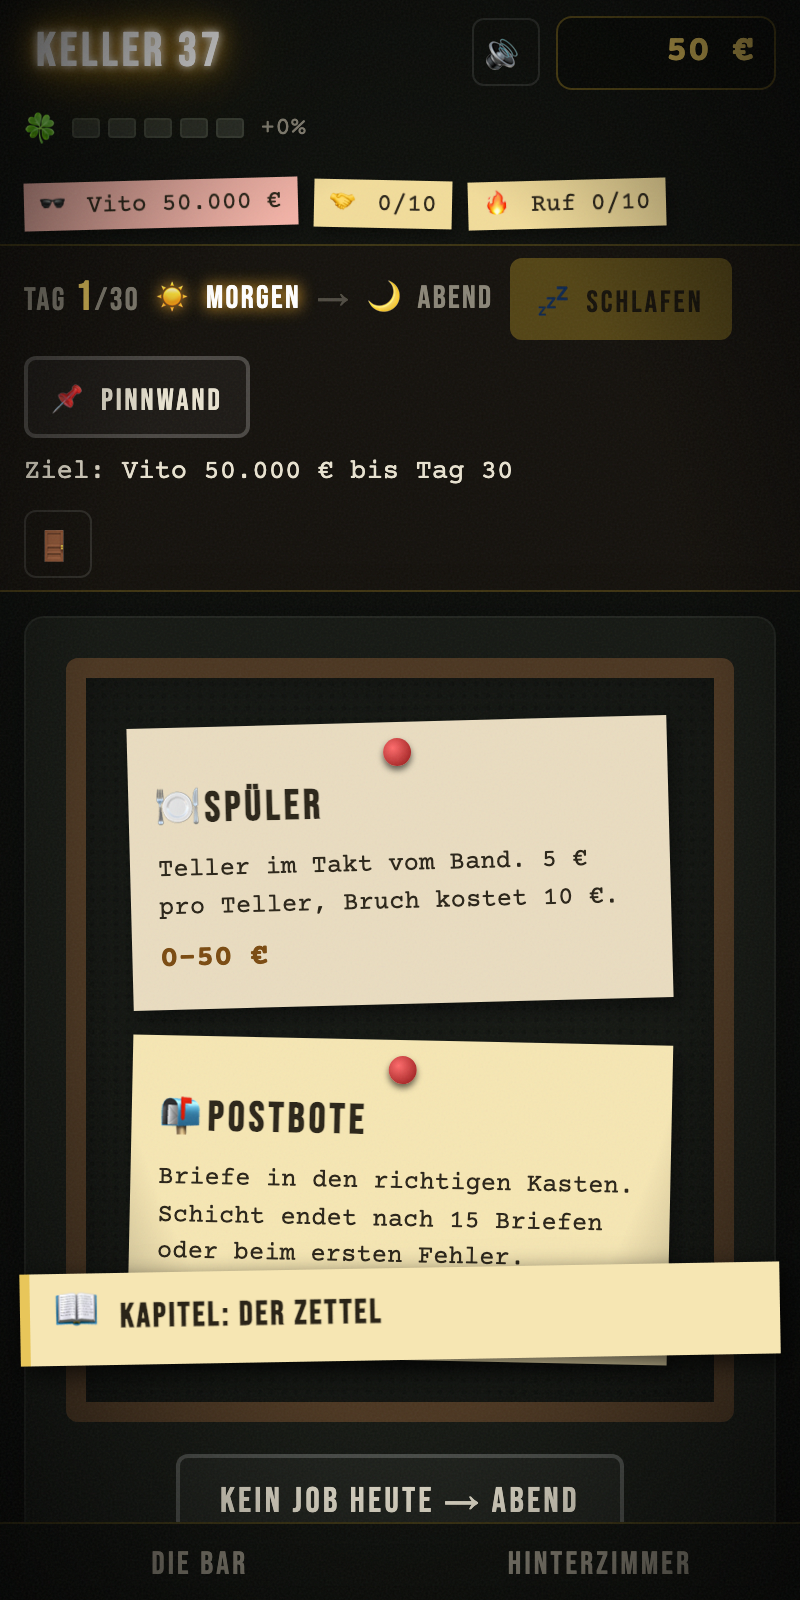
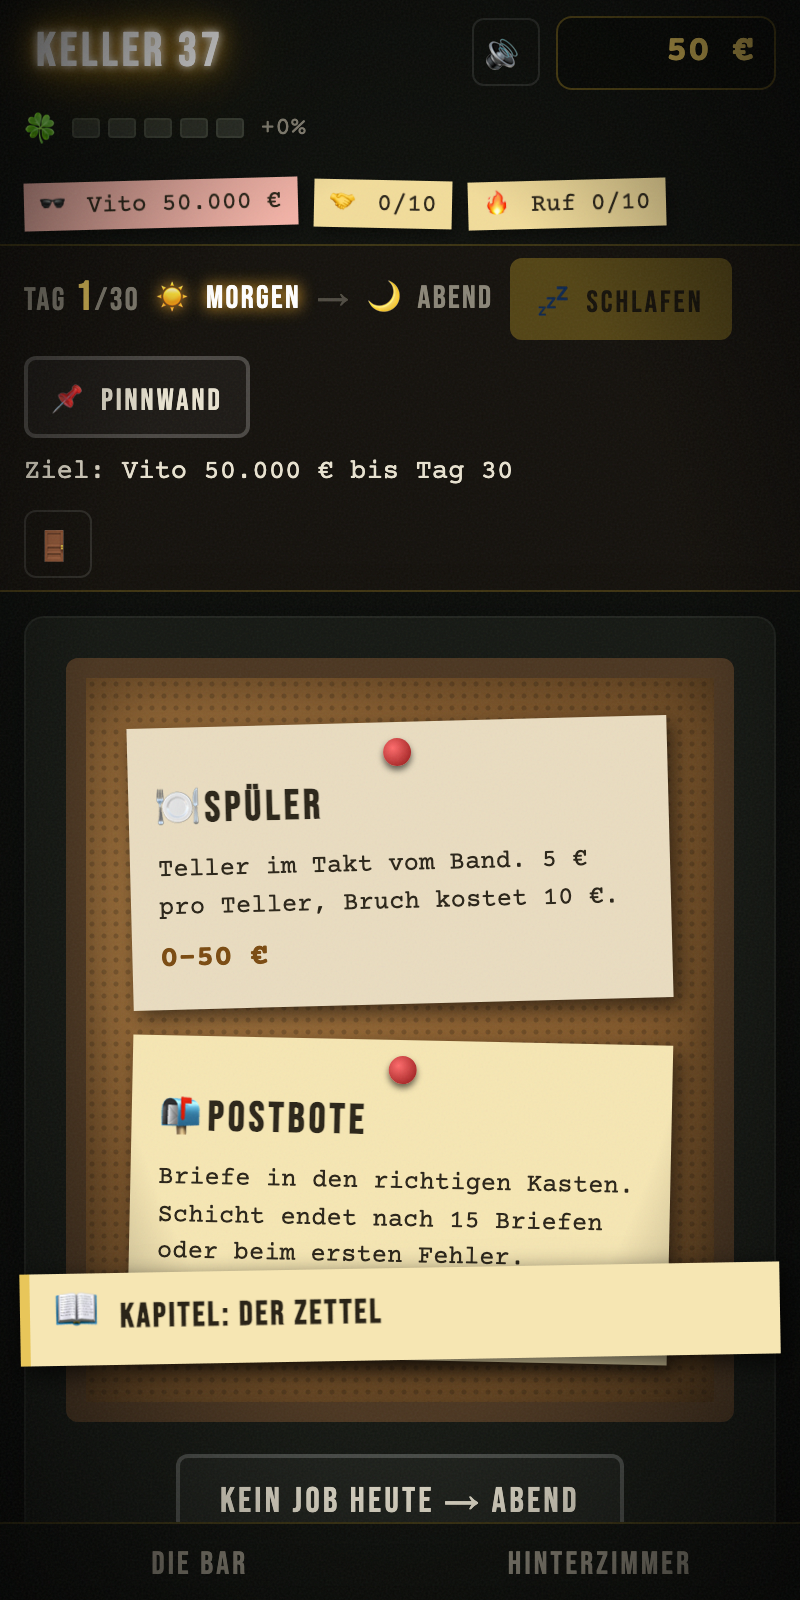
fix(story): Mini-Spiel verbraucht den Tag sofort, Story-Finanzraum ohne Sandbox-Kredit, Korkwand sichtbar
- Jobs.finishGame in Jobs.collect (Lohn verbuchen, jobToday setzen, ohne
  Navigation) und finishGame (collect + Abend) aufgeteilt; Spüler und Taxi
  rufen collect am Schichtende. Escape/Reload vor „Feierabend" lässt den Job
  damit nicht mehr wiederholen; Story.morning() springt bei gesetztem
  jobToday direkt in den Abend. Story.jobDone ist reine Buchhaltung.
- Finanz-Screen im Story-Modus: Bank-/Vito-Schalter nur bei freigeschaltetem
  Raum (bank/mafia), sonst einspaltig – kein Sandbox-Mafia-Kredit in Story 1.
- .pinboard: beide Hintergrund-Layer in einer background-image-Deklaration,
  die Korkwand war vorher schwarz. Screenshots story-jobs/story-mobile-jobs neu.
- Playtest: Szenario „Ein Job pro Tag ohne Feierabend-Klick" (4 Checks).

Changed region(s): [[0.0938, 0.4062, 0.9062, 0.8125], [0.0938, 0.8438, 0.9062, 0.875]]

diff --git a/keller37.html b/keller37.html
@@ -455,7 +455,7 @@ body.mode-story #newgame, body.mode-story #toTitle { display: none; }
 #nightfade.on { opacity: 1; pointer-events: auto; }
 @media (max-width: 760px) { .daybar { top: 0; position: static; padding: 6px 12px; gap: 8px; } .day-count { font-size: 1.3rem; } .day-goal { width: 100%; margin-left: 0; } }
 /* -- Jobbörse -- */
-.pinboard { position: relative; background: radial-gradient(circle at 20% 30%, #a8783f 0, #8a5e2e 40%, #6e4a22 100%); background-image: radial-gradient(rgba(0,0,0,.18) 1px, transparent 1.5px); background-size: 6px 6px; border: 10px solid #4a3520; border-radius: 6px; padding: 22px; display: grid; grid-template-columns: repeat(auto-fill, minmax(200px, 1fr)); gap: 18px; min-height: 260px; box-shadow: inset 0 0 40px rgba(0,0,0,.5); }
+.pinboard { position: relative; background-image: radial-gradient(rgba(0,0,0,.18) 1px, transparent 1.5px), radial-gradient(circle at 20% 30%, #a8783f 0, #8a5e2e 40%, #6e4a22 100%); background-size: 6px 6px, auto; border: 10px solid #4a3520; border-radius: 6px; padding: 22px; display: grid; grid-template-columns: repeat(auto-fill, minmax(200px, 1fr)); gap: 18px; min-height: 260px; box-shadow: inset 0 0 40px rgba(0,0,0,.5); }
 .jobnote { position: relative; background: var(--paper); color: var(--paper-ink); padding: 26px 14px 14px; font-family: var(--font-mono); box-shadow: 3px 4px 10px rgba(0,0,0,.6); transform: rotate(-1.5deg); display: flex; flex-direction: column; gap: 6px; cursor: pointer; transition: transform .15s; }
 .jobnote:nth-child(even) { transform: rotate(1.2deg); background: #f6e6b3; }
 .jobnote:hover { transform: rotate(0) translateY(-3px); }
@@ -1939,6 +1939,12 @@ UI.register('finance', {
   template: 'tpl-finance',
   mount(root) {
     Finance.root = root;
+    if (State.mode === 'story') {
+      const bank = qs('.counter.bank', root), vito = qs('.counter.vito', root);
+      bank.classList.toggle('hidden', !Story.roomUnlocked('bank'));
+      vito.classList.toggle('hidden', !Story.roomUnlocked('mafia'));
+      if (bank.classList.contains('hidden') || vito.classList.contains('hidden')) qs('.finance', root).style.gridTemplateColumns = '1fr';
+    }
     qsa('[data-loan]', root).forEach((b) => b.addEventListener('click', () => Finance.loanBank(parseInt(b.dataset.loan, 10))));
     qsa('[data-mloan]', root).forEach((b) => b.addEventListener('click', () => Finance.loanMafia(parseInt(b.dataset.mloan, 10))));
     qs('#repayBank', root).addEventListener('click', () => Finance.repayBank());
@@ -3409,6 +3415,7 @@ const Story = {
 
   /* ---- Tagesphasen ---- */
   async morning() {
+    if (this.s.jobToday) return this.evening(); // Job heute schon erledigt (z. B. Reload vor „Feierabend")
     this.s.phase = 'morning'; this.lostDay = false;
     State.save(); this.renderDaybar();
     await this.runEvents('morning');
@@ -3462,13 +3469,14 @@ const Story = {
     const c = await Title.show();
     if (c) await Modes.enter(c);
   },
+  /* Buchhaltung eines erledigten Jobs (kein Phasenwechsel) */
   jobDone(jobId, earned) {
     this.s.jobToday = jobId;
     this.s.jobsDone[jobId] = (this.s.jobsDone[jobId] || 0) + 1;
     this.s.stats.jobs++;
     this.s.stats.earned += Math.max(0, earned);
     State.save();
-    return this.evening();
+    this.renderDaybar();
   },
 
   /* ---- Sperren ---- */
@@ -3612,17 +3620,26 @@ const Jobs = {
     const extra = (Story.story.jobEffects || {})[sceneId];
     if (extra) await Story.applyEffects(extra);
     const earned = State.s.balance - before;
+    Story.jobDone(job.id, earned);
     await Bus.emit('job:done', { id: job.id, earned });
-    await Story.jobDone(job.id, earned);
+    await Story.evening();
     if (Story.lostDay) { Story.lostDay = false; UI.toast({ icon: '🚔', title: 'Tag verloren', text: 'Der Abend fällt aus.', tone: 'loss' }); await Story.night(); }
   },
-  async finishGame(id) {
+  /* Lohn verbuchen und den Tag verbrauchen – ohne Navigation. Wird am Ende eines Mini-Spiels
+     gerufen, damit der Job auch bei Escape/Reload vor „Feierabend" als erledigt gilt. */
+  async collect(id) {
     const start = Story.jobStart;
-    if (!start) return;
+    if (!start || start.id !== id) return false;
     Story.jobStart = null;
     const earned = State.s.balance - start.balance;
+    Story.jobDone(id, earned);
     await Bus.emit('job:done', { id, earned });
-    await Story.jobDone(id, earned);
+    return true;
+  },
+  /* „Feierabend": verbuchen (falls noch nicht geschehen) und in den Abend wechseln */
+  async finishGame(id) {
+    const collected = await this.collect(id);
+    if (collected || Story.s.jobToday === id) await Story.evening();
   },
   abort() { Story.jobStart = null; },
 };
@@ -3754,6 +3771,7 @@ const Spueler = {
     if (pay !== 0) Game.applyDelta(pay, { from: this.root ? qs('#belt', this.root) : null });
     if (pay >= 0) SFX.play('cash');
     await Bus.emit('spueler:result', { hits: this.hits, breaks: this.breaks, pay });
+    await Jobs.collect('spueler');
   },
   onKey(e) { if (e.code === 'Space' && qs('#cutscene').hidden && !e.repeat) { e.preventDefault(); Spueler.tap(); } },
 };
@@ -3849,6 +3867,7 @@ const Taxi = {
     if (pay !== 0) Game.applyDelta(pay, { from: this.root ? qs('#taxiRoad', this.root) : null });
     if (pay >= 0) SFX.play('cash');
     await Bus.emit('taxi:result', { passengers: this.passengers, tickets: this.tickets, pay });
+    await Jobs.collect('taxi');
   },
   onKey(e) {
     if (!qs('#cutscene').hidden) return;

diff --git a/tests/playtest-story.py b/tests/playtest-story.py
@@ -6,7 +6,8 @@ Startet einen echten Headless-Chrome (--headless=new --remote-debugging-port=933
 fährt die in Task-9-Brief/Spec §13 beschriebene Sequenz (Titel -> Story -> Intro ->
 Pinnwand -> Spüler -> Abend-Hub mit Sperren -> Vitos Tisch -> Schlafen -> Tag 2 ->
 Post-Schicht -> Nacht-Ereignisse -> Kapitel -> Taxi -> Kontrolle/Duell -> alle vier
-Enden -> Titel -> freies Spiel) und sammelt dabei Konsolenfehler/Exceptions.
+Enden -> Titel -> freies Spiel, dazu Ein-Job-pro-Tag ohne Feierabend-Klick) und sammelt dabei
+Konsolenfehler/Exceptions.
 
 Wo die Spec ausdrücklich "mit gesetzten Variablen" (§13) vorschreibt, werden
 Story-Felder direkt über Runtime.evaluate gesetzt und dann echte Engine-Methoden
@@ -678,6 +679,44 @@ async def scenario_spueler_taxi_loss(cdp):
            "res=%s before=%s after=%s" % (res, balance_before, balance_after))
 
 
+async def scenario_job_consumed_before_feierabend(cdp):
+    """Ein Job pro Tag auch ohne "Feierabend"-Klick: Spueler-Schicht beenden, dann Escape (statt
+    "Feierabend") -> Pinnwand zeigt "Heute erledigt", Spueler nicht erneut klickbar; Reload danach
+    -> Fortsetzen landet im Abend mit gesetztem jobToday und ohne doppelten Lohn."""
+    await cdp.navigate(URL_BASE + "?fresh&story=schuld&day=1&job=spueler")
+    await asyncio.sleep(1.0)
+    await cdp.inject_helpers()
+    await cdp.click("#btnDishStart")
+    await asyncio.sleep(0.3)
+    await cdp.eval("__pt.autoplaySpueler('win')", timeout=20)
+    await asyncio.sleep(0.3)
+    job_today = await cdp.eval("State.s.story.jobToday", await_promise=False)
+    phase = await cdp.eval("State.s.story.phase", await_promise=False)
+    record("ein-job-pro-tag: Schichtende verbraucht den Tag sofort (vor Feierabend)", job_today == "spueler" and phase == "morning",
+           "jobToday=%s phase=%s" % (job_today, phase))
+    for typ in ("keyDown", "keyUp"):
+        await cdp.send("Input.dispatchKeyEvent", {"type": typ, "key": "Escape", "code": "Escape", "windowsVirtualKeyCode": 27})
+    await cdp.wait_for("UI.current && UI.current.id === 'jobs' && !UI.busy", timeout=3.0)
+    screen = await cdp.eval("UI.current && UI.current.id", await_promise=False)
+    stamps = await cdp.eval("[...document.querySelectorAll('#pinboard .jobnote.done .done-stamp')].map((e) => e.textContent)", await_promise=False)
+    record("ein-job-pro-tag: Escape morgens -> Pinnwand mit 'Heute erledigt'", screen == "jobs" and "Heute erledigt" in (stamps or []),
+           "screen=%s stamps=%s" % (screen, stamps))
+    await cdp.eval("[...document.querySelectorAll('#pinboard .jobnote')].forEach((n) => n.click())", await_promise=False)
+    await asyncio.sleep(0.5)
+    screen = await cdp.eval("UI.current && UI.current.id", await_promise=False)
+    record("ein-job-pro-tag: Spueler nicht erneut klickbar", screen == "jobs", "screen=%s" % screen)
+    balance = await cdp.eval("State.s.balance", await_promise=False)
+    await cdp.navigate(URL_BASE)
+    await asyncio.sleep(1.0)
+    await cdp.inject_helpers()
+    await cdp.click(".title-door[data-choice='story']")
+    await cdp.wait_for("State.mode === 'story' && UI.current && UI.current.id === 'hub' && !UI.busy", timeout=3.0)
+    st = await cdp.eval("({phase: State.s.story.phase, jobToday: State.s.story.jobToday, screen: UI.current && UI.current.id, balance: State.s.balance, jobs: State.s.story.stats.jobs})", await_promise=False) or {}
+    record("ein-job-pro-tag: Reload nach Schichtende -> Abend, jobToday gesetzt, Lohn nur einmal",
+           st.get("phase") == "evening" and st.get("jobToday") == "spueler" and st.get("screen") == "hub" and st.get("balance") == balance and st.get("jobs") == 1,
+           "%s (balance vorher=%s)" % (st, balance))
+
+
 async def scenario_mode_switch_no_dataloss(cdp):
     """Titel <-> Modi ohne Datenverlust (frei -> Titel -> Story -> Titel -> frei)."""
     await cdp.navigate(URL_BASE + "?fresh&mode=free")
@@ -847,6 +886,7 @@ async def main():
         await scenario_job_param(cdp)
         await scenario_all_job_scenes(cdp)
         await scenario_spueler_taxi_loss(cdp)
+        await scenario_job_consumed_before_feierabend(cdp)
         await scenario_mode_switch_no_dataloss(cdp)
         await scenario_reload_mid_day(cdp)
         await scenario_mobile(cdp)
